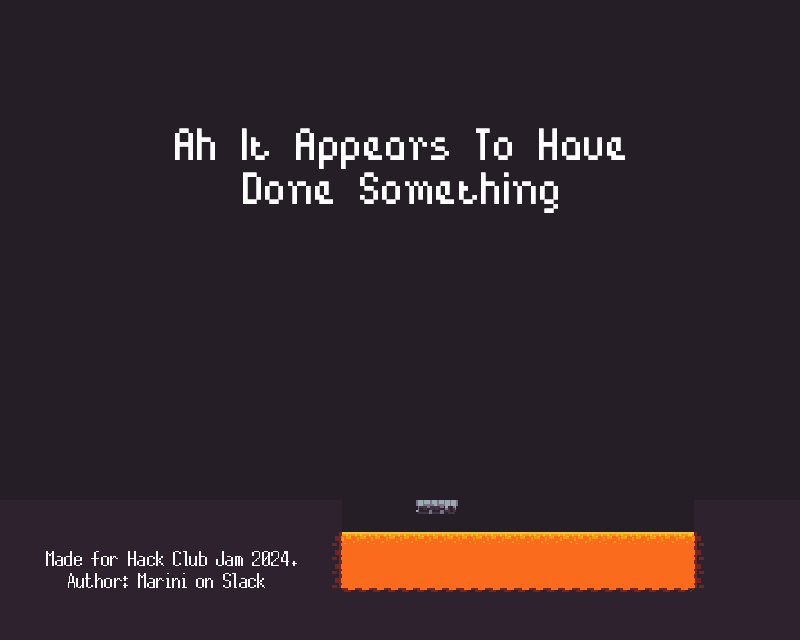
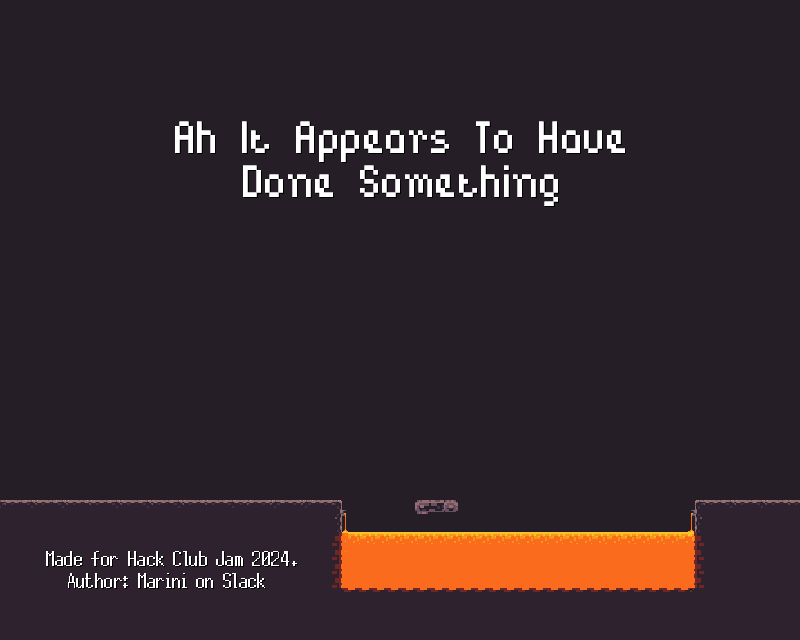
jam continue decorating assets

diff --git a/logic/physicsEntities.py b/logic/physicsEntities.py
@@ -58,7 +58,8 @@ class Player(PhysicsEntity):
         'right airborne': right_running_frames,
         'airborne': self.load_animation_frames('graphics/assets/player/airborne'),
         'standing': self.load_animation_frames('graphics/assets/player/standing'),
-        'asleep': self.load_animation_frames('graphics/assets/player/asleep')
+        'asleep': self.load_animation_frames('graphics/assets/player/asleep'),
+        'damaged': self.load_animation_frames('graphics/assets/player/damaged')
         }
 
         #Variables to keep track of the player's physics
@@ -114,7 +115,7 @@ class Player(PhysicsEntity):
 
         self.check_for_desired_movement()  #Check if desired movement is possible and then update the player's position accordingly
         self.apply_gravity() #Apply movement caused by gravit
-        self.update_status() #Update the player's status based on the player's velocity and previous status
+        if self.status != 'damaged': self.update_status() #Update the player's status based on the player's velocity and previous status
 
     def check_for_desired_movement(self):
         """Function that checks if the player can move to the desired position based on the player's status and velocity and then updates the player's position accordingly."""
@@ -127,7 +128,7 @@ class Player(PhysicsEntity):
                     case 'allowed': 
                         if not self.has_just_landed and not self.collides_with_other_entities(desired_x, desired_y): 
                             self.rect.midleft = desired_x, desired_y
-                    case 'death': self.reset()
+                    case 'death': self.init_death_sequence()
                     case 'changing level': self.advance_level()
                     case 'collision': self.velocity[0] = 0 #Stop the player's horizontal movement
                 
@@ -138,7 +139,7 @@ class Player(PhysicsEntity):
                     case 'allowed': 
                         if not self.has_just_landed and not self.collides_with_other_entities(desired_x, desired_y): 
                             self.rect.midright = desired_x, desired_y
-                    case 'death': self.reset()
+                    case 'death': self.init_death_sequence()
                     case 'changing level': self.advance_level()
                     case 'collision': self.velocity[0] = 0 #Stop the player's horizontal movement
             
@@ -151,7 +152,7 @@ class Player(PhysicsEntity):
                         case 'allowed': 
                             if not self.collides_with_other_entities(desired_x, self.rect.topleft[1]): 
                                 self.rect.topleft = desired_x, self.rect.topleft[1]
-                        case 'death': self.reset()
+                        case 'death': self.init_death_sequence()
                         case 'changing level': self.advance_level()
                         case 'collision': self.velocity[0] = 0
 
@@ -161,7 +162,7 @@ class Player(PhysicsEntity):
                         case 'allowed': 
                             if self.collides_with_other_entities(self.rect.topleft[0], desired_y): self.velocity[1] = BASE_GRAVITY_PULL
                             else: self.rect.topleft = self.rect.topleft[0], desired_y
-                        case 'death': self.reset()
+                        case 'death': self.init_death_sequence()
                         case 'changing level': self.advance_level()
                         case 'collision':
                             initial_desired_y = desired_y
@@ -183,7 +184,7 @@ class Player(PhysicsEntity):
                         case 'allowed': 
                             if self.collides_with_other_entities(desired_x, self.rect.topright[1]): self.velocity[1] = BASE_GRAVITY_PULL
                             else: self.rect.topright = desired_x, self.rect.topright[1]
-                        case 'death': self.reset()
+                        case 'death': self.init_death_sequence()
                         case 'changing level': self.advance_level()
                         case 'collision': self.velocity[0] = 0
 
@@ -193,7 +194,7 @@ class Player(PhysicsEntity):
                         case 'allowed':
                             if self.collides_with_other_entities(self.rect.topright[0], desired_y): self.velocity[1] = BASE_GRAVITY_PULL
                             else: self.rect.topright = self.rect.topright[0], desired_y
-                        case 'death': self.reset()
+                        case 'death': self.init_death_sequence()
                         case 'changing level': self.advance_level()
                         case 'collision':
                             initial_desired_y = desired_y
@@ -214,7 +215,7 @@ class Player(PhysicsEntity):
                         case 'allowed': 
                             if self.collides_with_other_entities(desired_x, desired_y): self.velocity[1] = BASE_GRAVITY_PULL
                             else: self.rect.midtop = desired_x, desired_y
-                        case 'death': self.reset()
+                        case 'death': self.init_death_sequence()
                         case 'changing level': self.advance_level()
                         case 'collision':
                             initial_desired_y = desired_y
@@ -250,7 +251,7 @@ class Player(PhysicsEntity):
                     match hor_result:
                         case 'allowed': 
                             if not self.collides_with_other_entities(desired_x, desired_y): self.rect.midleft = (desired_x, desired_y)
-                        case 'death': self.reset()
+                        case 'death': self.init_death_sequence()
                         case 'changing level': self.advance_level()
                         case 'collision': self.velocity[0] = 0 #Stop the player's horizontal movement
 
@@ -260,7 +261,7 @@ class Player(PhysicsEntity):
                     match hor_result:
                         case 'allowed':
                             if not self.collides_with_other_entities(desired_x, desired_y): self.rect.midright = (desired_x, desired_y)
-                        case 'death': self.reset()
+                        case 'death': self.init_death_sequence()
                         case 'changing level': self.advance_level()
                         case 'collision': self.velocity[0] = 0 #Stop the player's horizontal movement
 
@@ -278,7 +279,7 @@ class Player(PhysicsEntity):
                         self.animation_switching_delay = int(PLAYER_ANIMATION_SWITCHING_DELAY * (0.8 + (self.velocity[1] / 10))) #Dinamically set the delay to make so the landing seems heavy                 
                     else: self.velocity[1] = BASE_GRAVITY_PULL #If if does not collide with other entities and is not in air reset the player's vertical velocity
 
-                case 'death': self.reset()
+                case 'death': self.init_death_sequence()
                 case 'changing level': self.advance_level()
                 case 'collision':
                         self.velocity[1] = BASE_GRAVITY_PULL #Reset the player's vertical velocity
@@ -335,6 +336,9 @@ class Player(PhysicsEntity):
         
         elif self.velocity[0] == 0 and self.velocity[1] == BASE_GRAVITY_PULL and not self.is_in_air: self.status = 'standing'
 
+        elif self.status == 'damaged' and self.current_animation_frame == 3: #If the player has just finished the damaged animation
+            self.reset() #Reset the player
+
     def update_animation(self):
         """"Function that takes care of updating the player's sprite to follow an animation loop based on the player's status."""
         
@@ -389,6 +393,21 @@ class Player(PhysicsEntity):
         """Function that advances the player to the next level by increasing the current level number and resetting the player's position."""
         self.game.advance_level()
         self.reset()
+
+    def init_death_sequence(self):
+        """Function that initializes the player's death sequence."""
+
+        print('Player has died')
+
+        self.status = 'damaged' #Set the player's status to damaged
+        self.controls_enabled = False #Disable the player's controls
+        self.should_float = True #Enable the player's floating to permit the effect of knockback
+        self.current_animation_frame = -1 #Reset the animation frame counter
+         #Set the player's velocity to simulate knockback
+        if self.status in ['right', 'right airborne']: self.velocity = [-HOR_KNOCKBACK_STRENGTH, 0]
+        elif self.status in ['left', 'left airborne']: self.velocity = [HOR_KNOCKBACK_STRENGTH, 0]
+        elif self.status in ['standing', 'airborne'] and self.velocity[1] >= 0: self.velocity = [0, -VERT_KNOCKBACK_STRENGTH]
+        elif self.status in ['standing', 'airborne'] and self.velocity[1] < 0: self.velocity = [0, VERT_KNOCKBACK_STRENGTH]
 
     def reset(self):
         """Function that resets the player's value to default.""" 

diff --git a/game.py b/game.py
@@ -112,13 +112,12 @@ class Game:
         self.portal_rect: pg.Rect = self.current_portal_sprite.get_rect(bottomright = self.portal_coords[self.current_level_num]) 
 
         #Init start menu
-        midbottom = (SCREEN_WIDTH // 2, SCREEN_HEIGHT // 4)
 
         self.level_button_surf: pg.Surface = pg.image.load("graphics/assets/start menu/level.png").convert_alpha()
-        self.level_button_rect: pg.Rect = self.level_button_surf.get_rect(topleft = (102, self.logo_rect.midbottom[1] + 50))
+        self.level_button_rect: pg.Rect = self.level_button_surf.get_rect(topleft = (102, (SCREEN_HEIGHT // 4) + 100))
 
         self.start_button_surf: pg.Surface = pg.image.load("graphics/assets/start menu/start.png").convert_alpha()
-        self.start_button_rect: pg.Rect = self.start_button_surf.get_rect(topleft = (502, self.logo_rect.midbottom[1] + 50))
+        self.start_button_rect: pg.Rect = self.start_button_surf.get_rect(topleft = (502, (SCREEN_HEIGHT // 4) + 100))
 
         self.start_menu_ground_surf: pg.Surface = pg.image.load("graphics/assets/start menu/ground.png").convert_alpha()
         self.start_menu_ground_rect: pg.Rect = self.start_menu_ground_surf.get_rect(bottomleft = (0, LEVEL_RESOLUTIONS[0][1]))
@@ -138,6 +137,18 @@ class Game:
         
         #Pause menu
         self.paused_game_state: GameState = self.game_state #Variable to keep track of the previous game state used to return to the previous game state when unpausing
+        self.darken_surf: pg.Surface = pg.Surface(LEVEL_RESOLUTIONS[0]) #Create a surface to darken the screen
+        self.darken_surf.set_alpha(PAUSE_MENU_BACKGROUND_ALPHA) #Set the alpha value of the darken surface
+
+        screen_center_x = LEVEL_RESOLUTIONS[0][0] // 2
+        self.pause_menu_pause_text: pg.Surface = pg.image.load("graphics/assets/pause menu/pause.png").convert_alpha()
+        self.pause_menu_pause_rect: pg.Rect = self.pause_menu_pause_text.get_rect(midtop = (screen_center_x, LEVEL_RESOLUTIONS[0][1] // 4))
+
+        self.pause_menu_resume_text: pg.Surface = pg.image.load("graphics/assets/pause menu/resume.png").convert_alpha()
+        self.pause_menu_resume_rect: pg.Rect = self.pause_menu_resume_text.get_rect(midtop = (screen_center_x, LEVEL_RESOLUTIONS[0][1] // 2))
+
+        self.pause_menu_quit_text: pg.Surface = pg.image.load("graphics/assets/pause menu/quit.png").convert_alpha()
+        self.pause_menu_quit_rect: pg.Rect = self.pause_menu_quit_text.get_rect(midtop = (screen_center_x, (LEVEL_RESOLUTIONS[0][1] // 4) * 3))
 
     def update_portal_animation(self): #Written here so that it can be reused in all game states
         """Function that updates the portal animation"""
@@ -161,6 +172,7 @@ class Game:
                 init_level_two(self)
 
         self.update_screen_dimensions() #Update the screen dimensions
+        self.darken_surf = pg.transform.scale(self.darken_surf, LEVEL_RESOLUTIONS[self.current_level_num]) #Update the darken surface
         self.portal_rect = self.current_portal_sprite.get_rect(bottomright = self.portal_coords[self.current_level_num]) #Update the portal rect
 
     def generic_pause_event_handler(self):

diff --git a/logic/states/pauseMenu.py b/logic/states/pauseMenu.py
@@ -15,15 +15,11 @@ def update_pause_menu(game):
 
 def render_pause_menu(game):
     """Function that renders the pause menu game state"""
-    darkned_surf = pg.Surface(LEVEL_RESOLUTIONS[game.current_level_num]) #Create a surface to darken the screen
-    darkned_surf.set_alpha(PAUSE_MENU_BACKGROUND_ALPHA) #Fill the surface with black
-
     screen = game.screen #Rename screen to make draw calls easier to read
     
     match game.paused_game_state:
         case GameState.START_MENU:
             #render_start_menu(game) #Could also do this but it would also draw the cursor (a fix could be moving the cursor drawing to the main render function in game.py)
-            screen.blit(game.logo_surf, game.logo_rect) #Draw the logo
             screen.blit(game.start_menu_ground_surf, game.start_menu_ground_rect) #Draw the ground
             screen.blit(game.level_button_surf, game.level_button_rect) #Draw the level button
             screen.blit(game.start_button_surf, game.start_button_rect) #Draw the start button
@@ -45,5 +41,8 @@ def render_pause_menu(game):
 
             if game.player.status == 'asleep': screen.blit(game.level_two_env_mask, (0, 0)) #Draw the environment mask if the player is still asleep
 
-    screen.blit(darkned_surf, (0, 0)) #Darken the screen
+    screen.blit(game.darken_surf, (0, 0)) #Darken the screen
+    screen.blit(game.pause_menu_pause_text, game.pause_menu_pause_rect) #Draw the pause text
+    screen.blit(game.pause_menu_resume_text, game.pause_menu_resume_rect) #Draw the resume text
+    screen.blit(game.pause_menu_quit_text, game.pause_menu_quit_rect) #Draw the restart text
     if game.should_draw_cursor: screen.blit(game.cursor_surf, pg.mouse.get_pos()) #Draw the cursor

diff --git a/settings.py b/settings.py
@@ -17,6 +17,8 @@ PLAYER_GRAVITY_PULL_DELAY = 2 #The delay in frames between gravity pulls on the 
 BASE_GRAVITY_PULL = FALLING_SPEED_INCR #The base gravity pull any entity with simulated physics (suggested: FALLING_SPEED_INCR)
 MAX_DOWN_VELOCITY = 16 #The maximum speed the player can fall at in pixels per frame (should be multiple of FALLING_SPEED_INCR) (suggested: 16)
 MAX_UP_VELOCITY = -30 #The maximum speed the player can jump at in pixels per frame (should be multiple of FALLING_SPEED_INCR) (suggested: -30)
+HOR_KNOCKBACK_STRENGTH = 5 #The strength of the horizontal knockback in pixels per frame (suggested: 5)
+VERT_KNOCKBACK_STRENGTH = 5 #The strength of the vertical knockback in pixels per frame (suggested: 5)
 
 #Player movement settings
 PLAYER_SPEED = 2 #The speed of the player in pixels per frame while on the ground (suggested: 2)

diff --git a/logic/states/startMenu.py b/logic/states/startMenu.py
@@ -36,7 +36,6 @@ def render_start_menu(game):
     screen.blit(game.current_portal_sprite, game.portal_rect) #Draw the end of level portal
     screen.blit(game.player.sprite, game.player.rect) #Draw the player
 
-    screen.blit(game.logo_surf, game.logo_rect) #Draw the logo
     screen.blit(game.level_button_surf, game.level_button_rect) #Draw the level button
     screen.blit(game.start_button_surf, game.start_button_rect) #Draw the start button
     [screen.blit(entity.sprite, entity.rect) for entity in game.entities] #Draw all the entities
